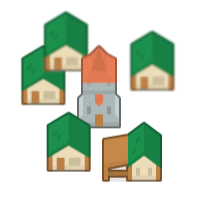
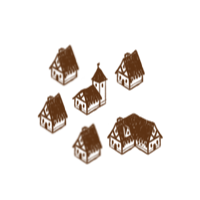
cosmetic improvements to map

diff --git a/engine/modules/LEVEL/FOG.js b/engine/modules/LEVEL/FOG.js
@@ -46,6 +46,14 @@ const FOG = {
       FOG._stop("fog_right");
   },
 
+  recolor: function(c){
+    var color = PALETTE.color(c).code();
+    document.getElementById("fog_top").style.background = color;
+    document.getElementById("fog_bot").style.background = color;
+    document.getElementById("fog_left").style.background = color;
+    document.getElementById("fog_right").style.background = color;
+  },
+
   viewport: function(){
     return FOG.MIN_VIEWPORT + (FOG.MAX_VIEWPORT - FOG.MIN_VIEWPORT) * MARTYRDOM.effect(MARTYRDOMS.Vision);
   },
@@ -62,6 +70,12 @@ const FOG = {
 
     document.getElementById("fog_right").style.top = y - FOG.MASK_HEIGHT/2;
     document.getElementById("fog_right").style.left = x + FOG.viewport()/2;
+
+    var adj = document.getElementById("fog_adjacent");
+    if (adj){
+      adj.style.top = y + FOG.viewport()/2 - adj.clientHeight/2;
+      adj.style.left = x - FOG.viewport()/2 - adj.clientWidth/2;
+    }
   },
 
   moveToChar: function(){

diff --git a/engine/modules/INTERFACE.js b/engine/modules/INTERFACE.js
@@ -71,7 +71,8 @@ const INTERFACE = {
            <b>Characters</b>: <a href="http://untamed.wild-refuge.net/rmxpresources.php?characters" target="_blank">Sithiester</a><br />
            <b>Events</b>: <a href="http://www.junkie-chain.jp/main.html" target="_blank">Junkie-chain</a><br />
            <b>Sound effects</b>: Audio Alchemist and <a href="https://opengameart.org/users/p0ss">p0ss</a><br />
-           <b>Tiles</b>: REFMAP and FSM, Szadiart
+           <b>Tiles</b>: REFMAP and FSM, Szadiart<br />
+           <b>Map art</b>: MELLE, prushik
            `, [
                {"text": "Back", "effect": "##BACK"}
             ]);
@@ -126,4 +127,10 @@ const INTERFACE = {
     INTERFACE.draw.click_marker();
     CURRENTLEVEL.system.redraw();
   },
+
+  make_compass: function() {
+    var compass = new StaticSprite("assets/interface/windrose.png", 'player');
+    compass.container.id="fog_adjacent";
+    compass.container.style.zIndex = 11000;    
+  }
 }

diff --git a/engine/modules/LEVEL/CURRENTLEVEL.js b/engine/modules/LEVEL/CURRENTLEVEL.js
@@ -48,8 +48,10 @@ const CURRENTLEVEL = {
       CURRENTLEVEL.level_name = name;
 
       if(name.endsWith("map")){
+        FOG.recolor('obj_light');
         document.body.style.backgroundColor = PALETTE.color('obj_dark').code();
       } else {
+        FOG.recolor('player');
         document.body.style.backgroundColor = PALETTE.color('void').code();
       }
 
@@ -289,6 +291,7 @@ const CURRENTLEVEL = {
         IO.control.character();
       }
     }
+    FOG.moveToChar();
   },
 
   add_trigger: function(key, f_condition, f_execute) {

diff --git a/engine/modules/MEMORY/RESOURCES.js b/engine/modules/MEMORY/RESOURCES.js
@@ -47,6 +47,7 @@ const RESOURCES = {
     RESOURCES.get_img('assets/interface/circle.png');
     RESOURCES.get_img('assets/interface/cross.png');
     RESOURCES.get_img('assets/interface/dodger.png');
+    RESOURCES.get_img('assets/interface/windrose.png');
     RESOURCES.get_img('assets/objects/interior/column.png');
     RESOURCES.get_img('assets/objects/event.png');
     RESOURCES.get_img('assets/objects/interior/savepoint.png');

diff --git a/objects/Map.js b/objects/Map.js
@@ -5,7 +5,7 @@ class S_Town extends LevelObject {
   constructor(x, y, destination, name, accessibility_function){
     var visual = new StaticSprite("assets/objects/map/town.png", 'obj_light');
     super(visual, x, y);
-    this.adjust_hitbox(30,-5,140,130);
+    this.adjust_hitbox(50,-5,120,130);
     this.destination = destination;
     this.accessibility_function = accessibility_function;
 

diff --git a/levels/005_world_map.js b/levels/005_world_map.js
@@ -8,6 +8,8 @@ gen.build();
 
 var g = gen.church_entrance();*/
 
+INTERFACE.make_compass();
+
 new S_Floor(50, 2050, 1000, 2000, 'obj_dark');
 
 
